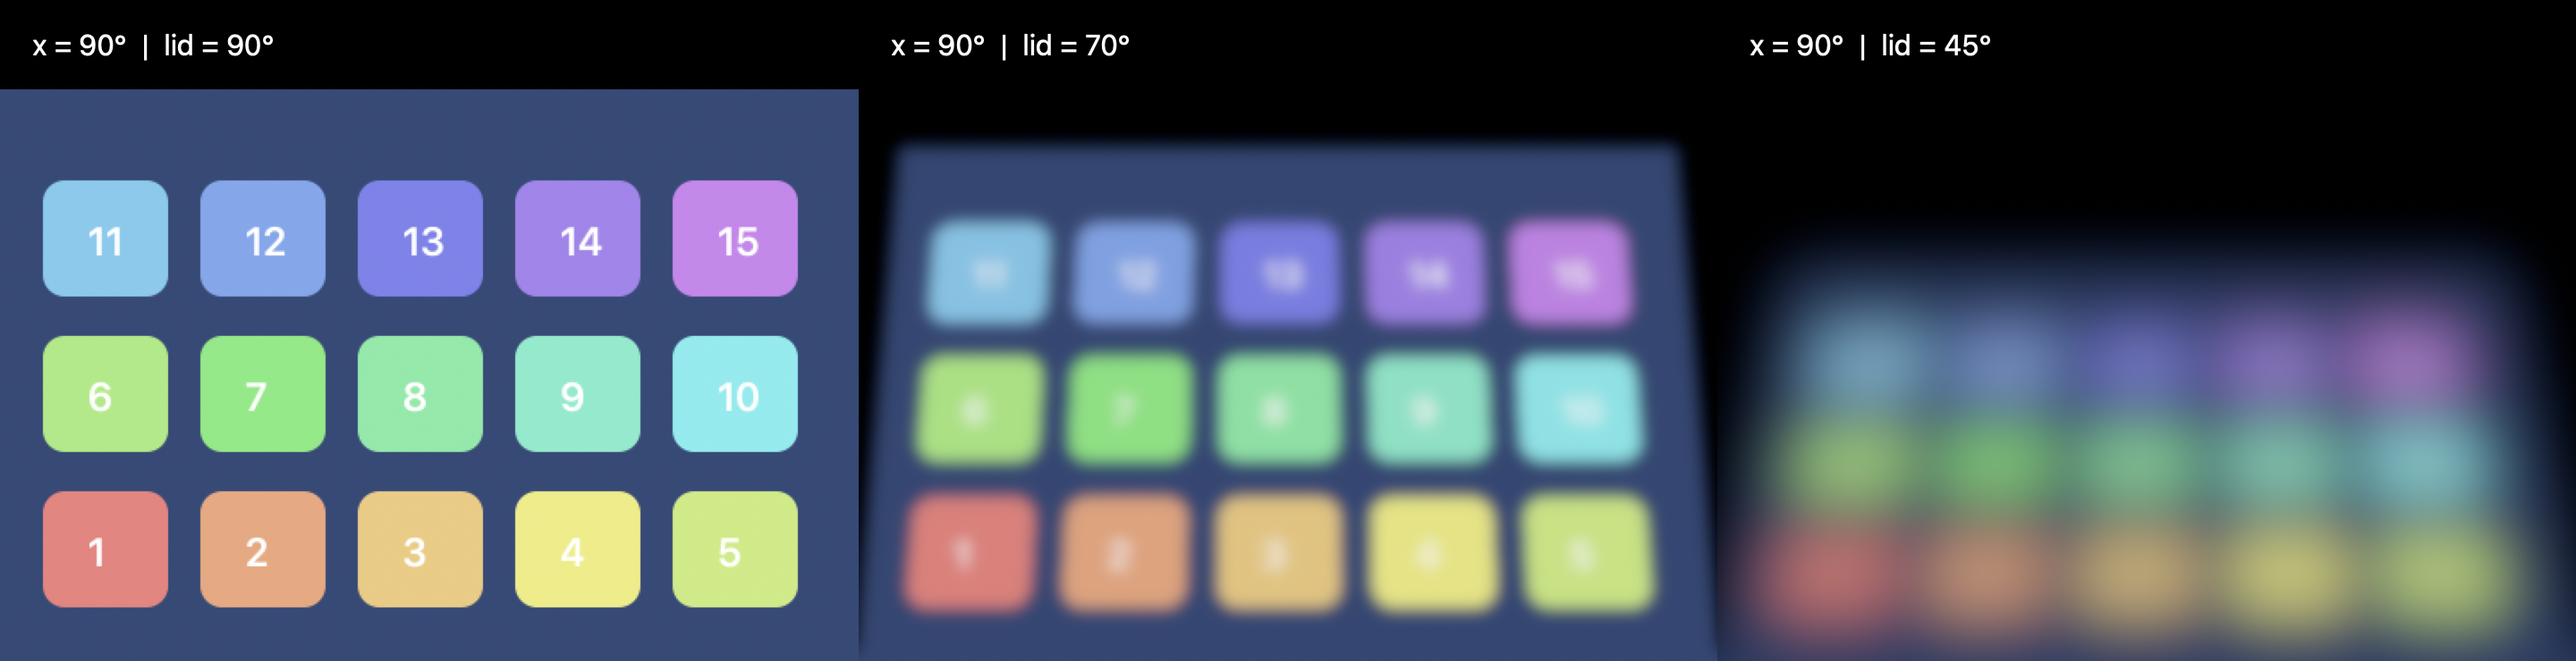
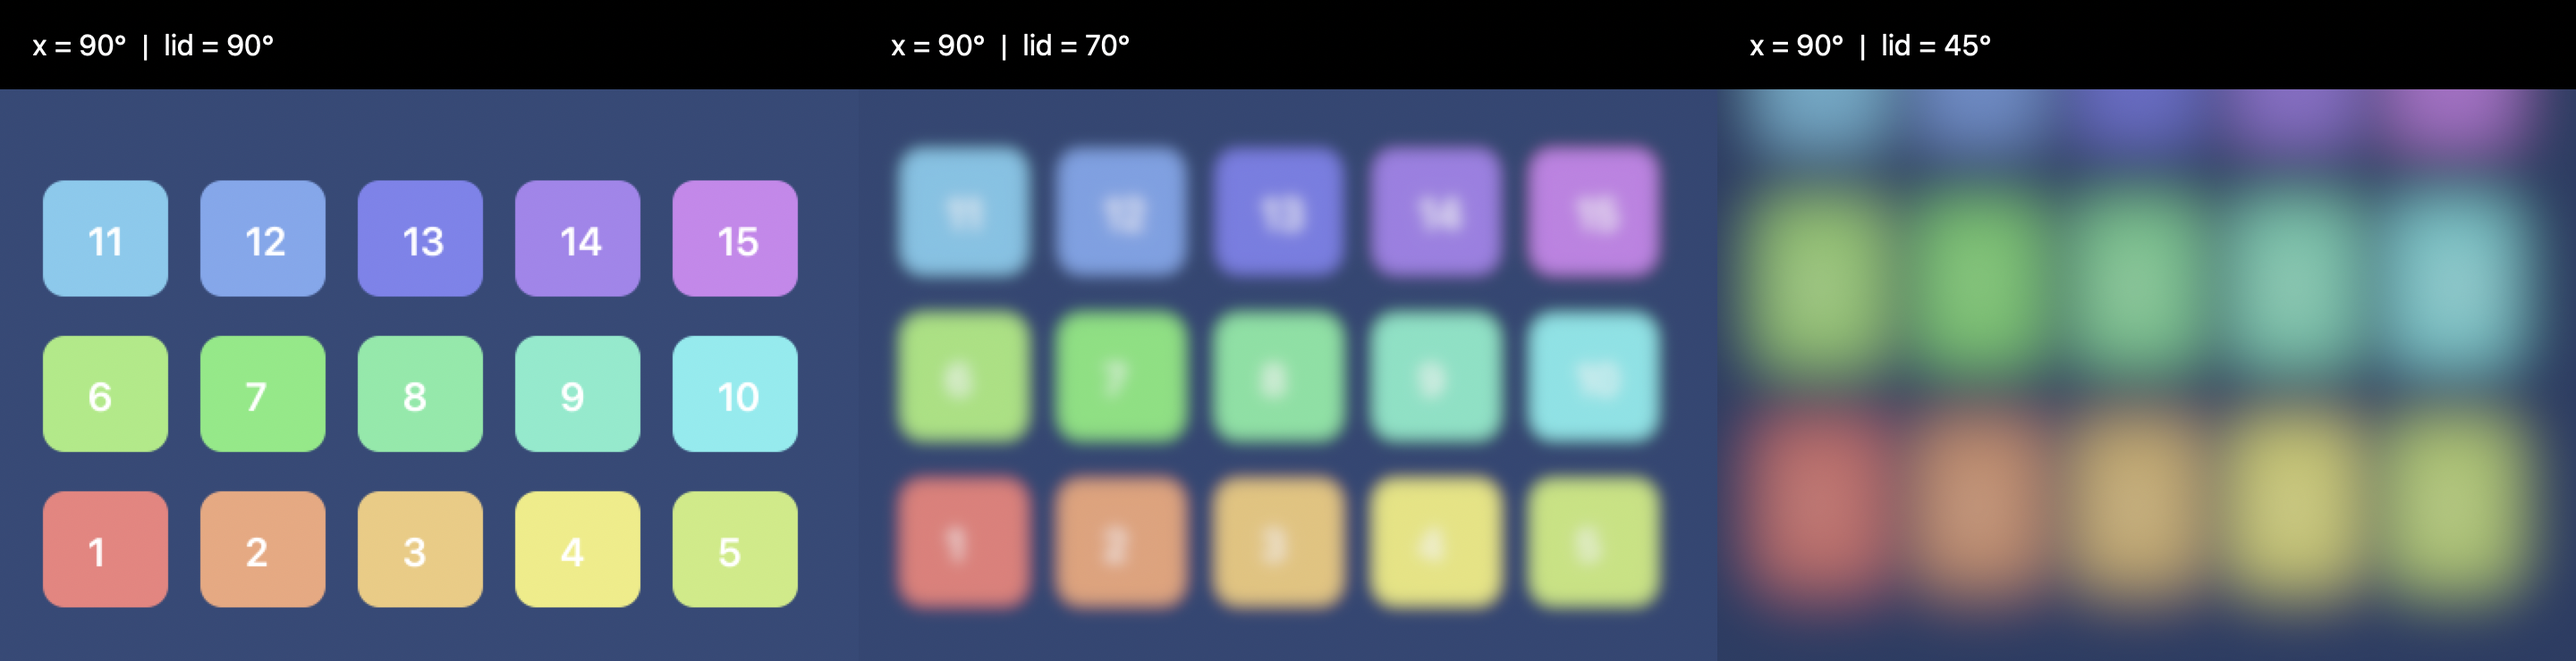
Project along the reference plane's normal with parallel rays
The line of sight is perpendicular to the reference screen at the threshold
angle and does not move with the lid. Along that line the lid, tilted by
x − y, is foreshortened to cos(x − y) of its height, so the content is
stretched by 1 / cos(x − y) from the shared hinge and whatever lands past the
lid's top edge is not shown. The rays are parallel, so nothing narrows: the
trapezoid that every earlier version produced came from placing a point eye
at a finite distance, which was never part of the model.

Only the difference angle matters. The stretch is capped at 3×.

diff --git a/Sources/EffectModel.swift b/Sources/EffectModel.swift
@@ -8,21 +8,18 @@ struct EffectGeometry: Equatable {
 }
 
 enum EffectModel {
-    /// The viewer looks straight at the lid: the line of sight is perpendicular to
-    /// the lid and passes through its middle, and it turns with the lid as it
-    /// closes. `eyeDistance` is how far the eye is from the lid along that line,
-    /// in screen heights. Larger is closer to a parallel projection: the top edge
-    /// at cos(x - y) with no narrowing at all.
-    static let eyeDistance = 3.0
-    private static let sightFraction = 0.5
+    /// Content beyond this stretch is a sliver at the bottom of the lid anyway;
+    /// 1 / cos(x - y) is unbounded as the planes approach a right angle.
+    private static let maximumStretch = 3.0
 
     /// The screen is treated as fixed at the reference angle x while the lid is
-    /// really at y. Each point of the content on plane x is projected along the
-    /// eye's ray onto the lid, so the eye sees the content where it would be if
-    /// the lid had not moved. The reference plane leans away from a viewer who
-    /// faces the lid, so its content is foreshortened toward the shared hinge:
-    /// `topHeight` (< 1) is where the content's top lands along the lid, leaving
-    /// the strip above it empty, and `topWidth` is the width scale there.
+    /// really at y, and the viewer looks straight at that reference screen: the
+    /// line of sight is perpendicular to plane x and does not move with the lid.
+    /// The rays are parallel, so no point of the image moves sideways. Seen along
+    /// that line the lid, tilted by x - y, is foreshortened to cos(x - y) of its
+    /// height, so the content is stretched by 1 / cos(x - y) along the lid from
+    /// the shared hinge and whatever lands past the lid's top edge is not shown:
+    /// `topHeight` (> 1) is where the content's top would land, `topWidth` is 1.
     /// `strength` scales how much of that is applied: 0 leaves the image flat
     /// (only dimming and blur), 1 is the full geometry.
     static func geometry(angle: Double?, threshold: Double, strength: Double = 1) -> EffectGeometry {
@@ -31,17 +28,9 @@ enum EffectModel {
         let amount = min(1, max(0, 1 - angle / threshold))
         let darkness = 0.65 * amount * amount * (3 - 2 * amount)
         let k = strength.isFinite ? min(1, max(0, strength)) : 1
-        // Only the angle between the two planes matters, because the eye moves
-        // with the lid. Side view in the lid's own frame: u along the lid from
-        // the hinge, n its normal toward the viewer.
-        let delta = min(180, threshold - angle) * .pi / 180
-        let eye = eyeDistance, foot = sightFraction
-        // Content top on the reference plane: (cos delta along u, -sin delta along n).
-        // Ray from the eye (foot, eye) meets the lid n = 0 at parameter t.
-        let t = eye / (eye + sin(delta))
-        let along = foot + t * (cos(delta) - foot)
-        let height = max(0.05, min(1, along)), width = max(0.08, t)
-        return EffectGeometry(topHeight: 1 + k * (height - 1), topWidth: 1 - k * (1 - width), darkness: darkness)
+        let delta = (threshold - angle) * .pi / 180
+        let stretch = delta < .pi / 2 ? min(maximumStretch, 1 / cos(delta)) : maximumStretch
+        return EffectGeometry(topHeight: 1 + k * (stretch - 1), topWidth: 1, darkness: darkness)
     }
 
     static func radius(angle: Double?, threshold: Double, maximum: Double, enabled: Bool) -> Double {

diff --git a/Tests/main.swift b/Tests/main.swift
@@ -26,7 +26,7 @@ check(LidReport.angle([2, 90, 0]) == nil, "wrong report ID rejected")
 let clearGeometry = EffectModel.geometry(angle: 90, threshold: 90)
 check(clearGeometry.topHeight == 1 && clearGeometry.topWidth == 1 && clearGeometry.darkness == 0, "reference plane is identity")
 let foldedGeometry = EffectModel.geometry(angle: 45, threshold: 90)
-check(foldedGeometry.topHeight < 1 && foldedGeometry.topWidth < 1, "closing foreshortens toward the hinge and narrows slightly")
+check(foldedGeometry.topHeight > 1 && foldedGeometry.topWidth == 1, "closing stretches past the top edge without narrowing")
 check(foldedGeometry.darkness > 0 && foldedGeometry.darkness < 1, "closing dims image")
 check(EffectModel.geometry(angle: nil, threshold: 90) == .identity, "missing angle resets projection")
 for x in stride(from: 10.0, through: 140, by: 1) {
@@ -44,21 +44,21 @@ let full = EffectModel.geometry(angle: 45, threshold: 90, strength: 1)
 let flat = EffectModel.geometry(angle: 45, threshold: 90, strength: 0)
 let half = EffectModel.geometry(angle: 45, threshold: 90, strength: 0.5)
 check(flat.topHeight == 1 && flat.topWidth == 1 && flat.darkness == full.darkness, "zero strength is flat but still dims")
-check(half.topWidth > full.topWidth && half.topWidth < 1 && half.topHeight < 1 && half.topHeight > full.topHeight, "half strength sits between")
+check(half.topWidth == 1 && half.topHeight > 1 && half.topHeight < full.topHeight, "half strength sits between")
 check(EffectModel.geometry(angle: 45, threshold: 90, strength: 7) == full, "strength clamps to 1")
 // The eye turns with the lid, so only the angle between the planes matters.
 let sameDelta = EffectModel.geometry(angle: 90, threshold: 120)
 check(sameDelta.topHeight == EffectModel.geometry(angle: 60, threshold: 90).topHeight, "geometry depends on the difference angle only")
-// Foreshortening deepens monotonically as the lid closes; the top edge never crosses the hinge.
+// The stretch grows monotonically as the lid closes and is capped.
 var previous = 1.0
 for a in stride(from: 89, through: 0, by: -1) {
     let g = EffectModel.geometry(angle: Double(a), threshold: 90)
-    check(g.topHeight <= previous && g.topHeight >= 0.05, "foreshortening is monotonic and bounded at \(a)")
+    check(g.topHeight >= previous && g.topHeight <= 3 && g.topWidth == 1, "stretch is monotonic, capped and never narrows at \(a)")
     previous = g.topHeight
 }
-// Parallel-projection sanity: at 60° apart the content's top lands near cos 60° = 0.5.
+// Parallel projection along the reference plane's normal: 60° apart stretches by 1 / cos 60° = 2.
 let sixty = EffectModel.geometry(angle: 30, threshold: 90)
-check(abs(sixty.topHeight - 0.5) < 0.02 && sixty.topWidth > 0.7, "60° apart foreshortens to about half height with mild narrowing")
+check(abs(sixty.topHeight - 2) < 1e-9 && sixty.topWidth == 1, "60° apart stretches to twice the height")
 var motion = EffectMotion()
 let targetGeometry = EffectModel.geometry(angle: 45, threshold: 90)
 motion.advance(radius: 20, geometry: targetGeometry, deltaTime: 1.0 / 60)
